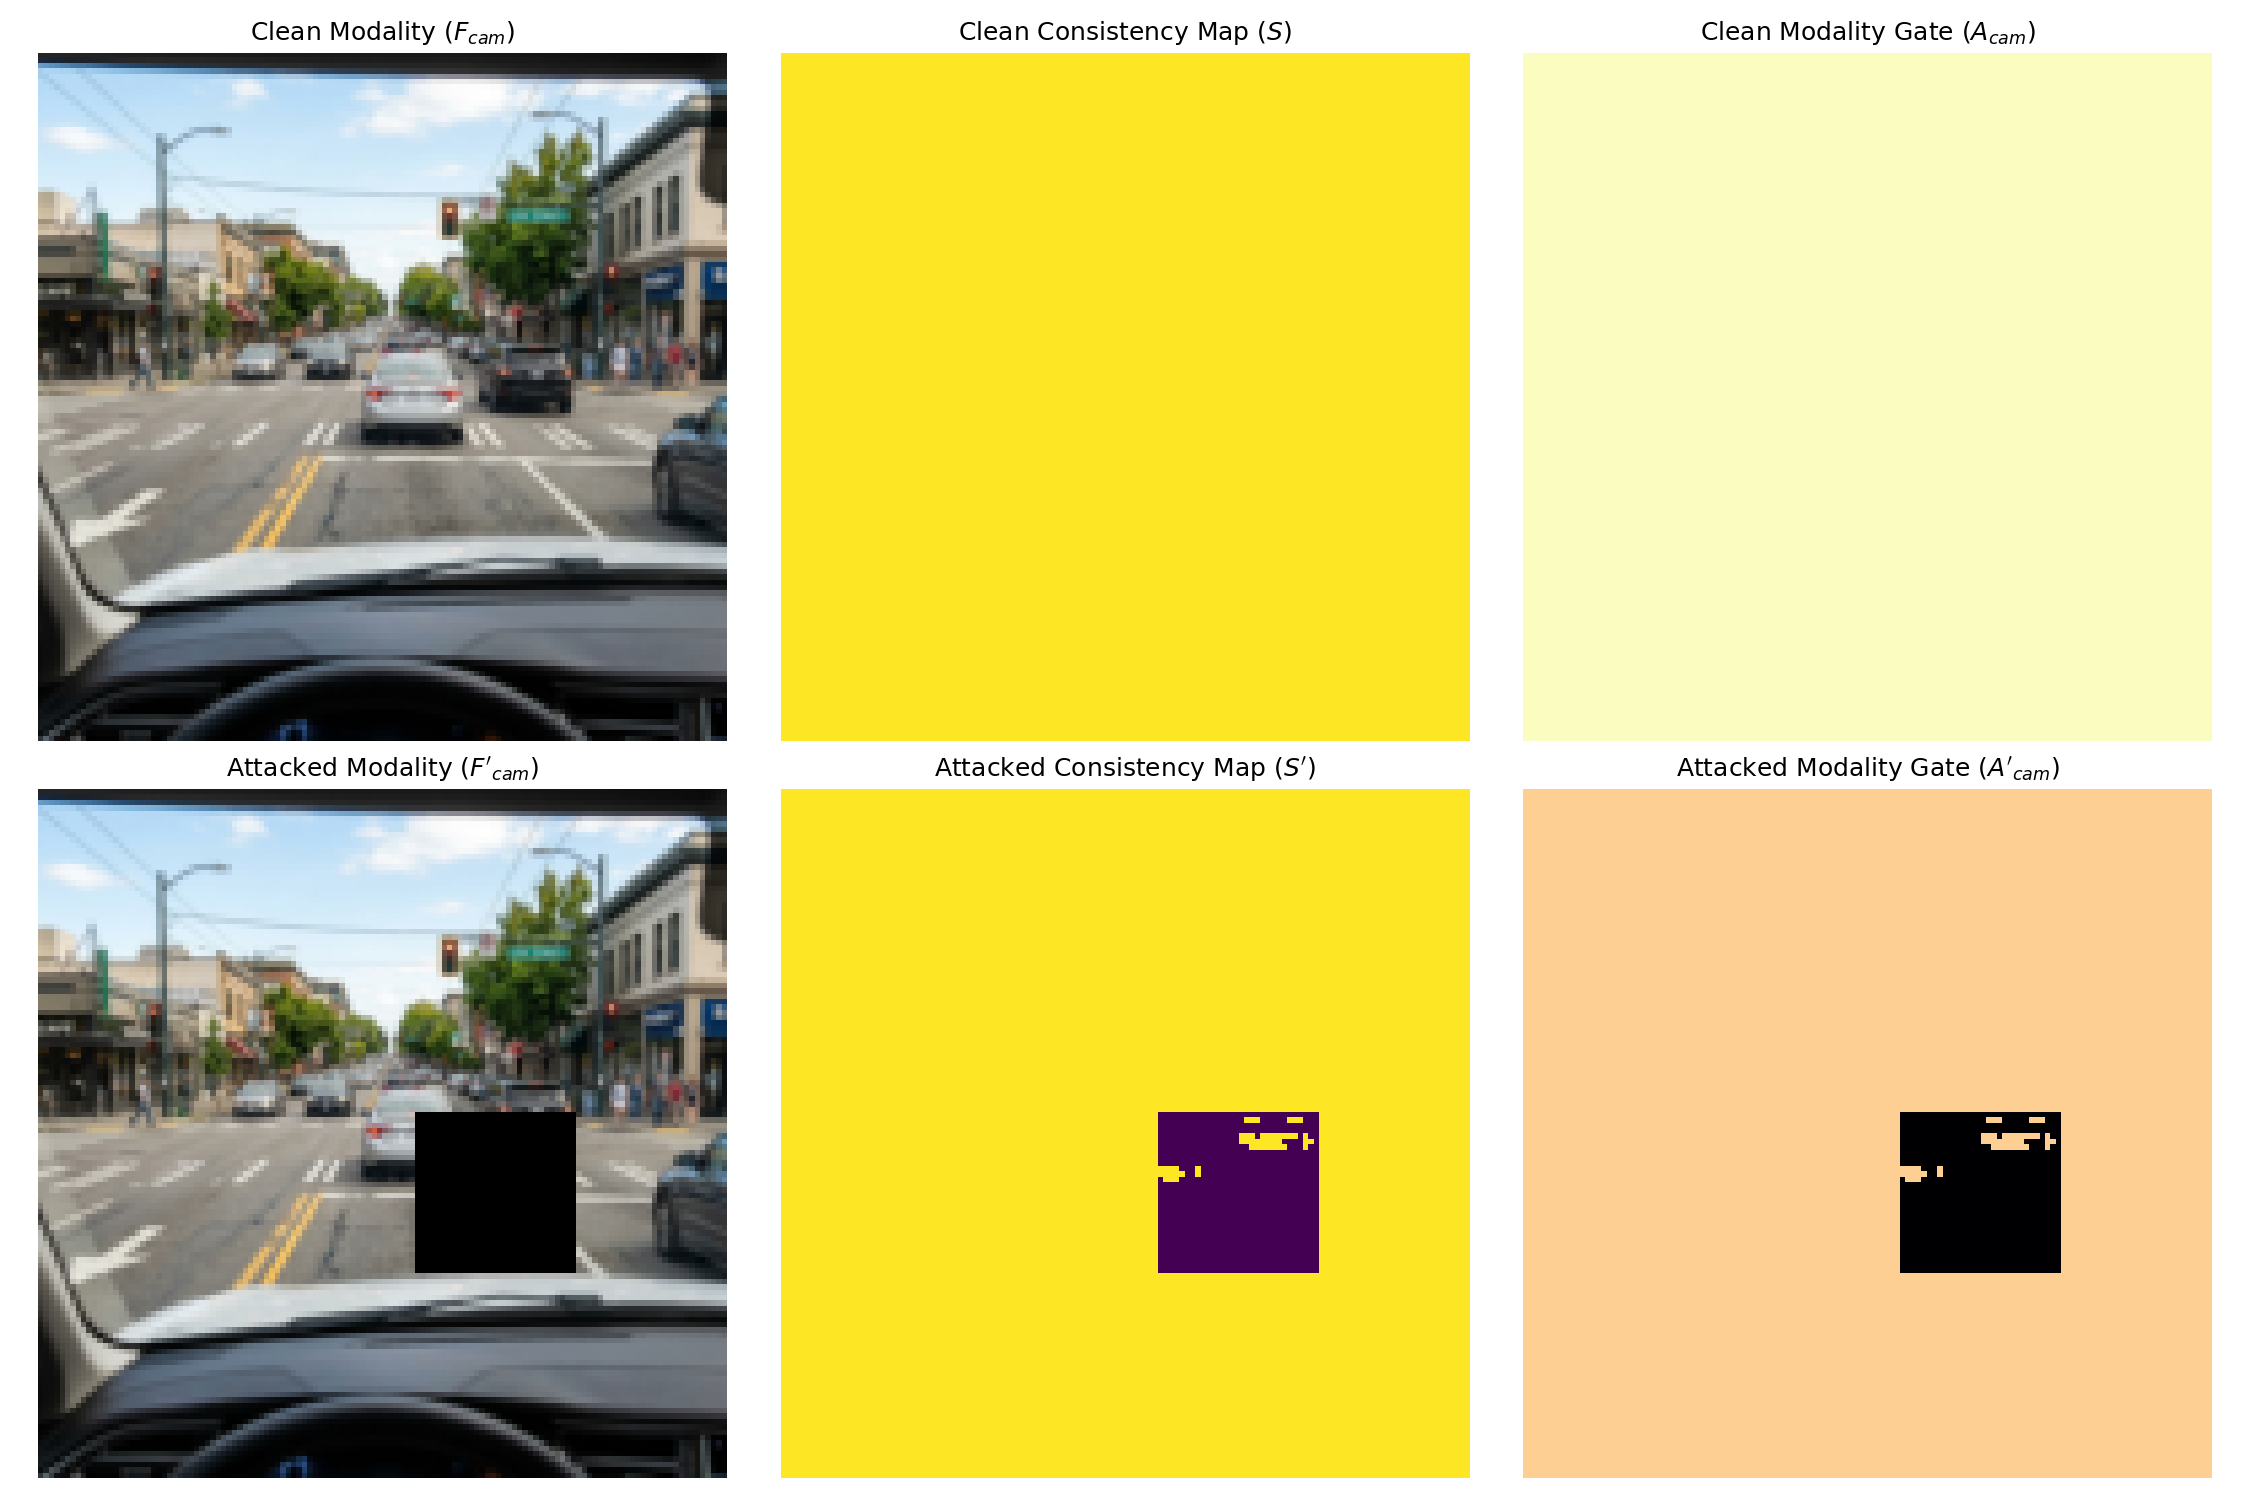
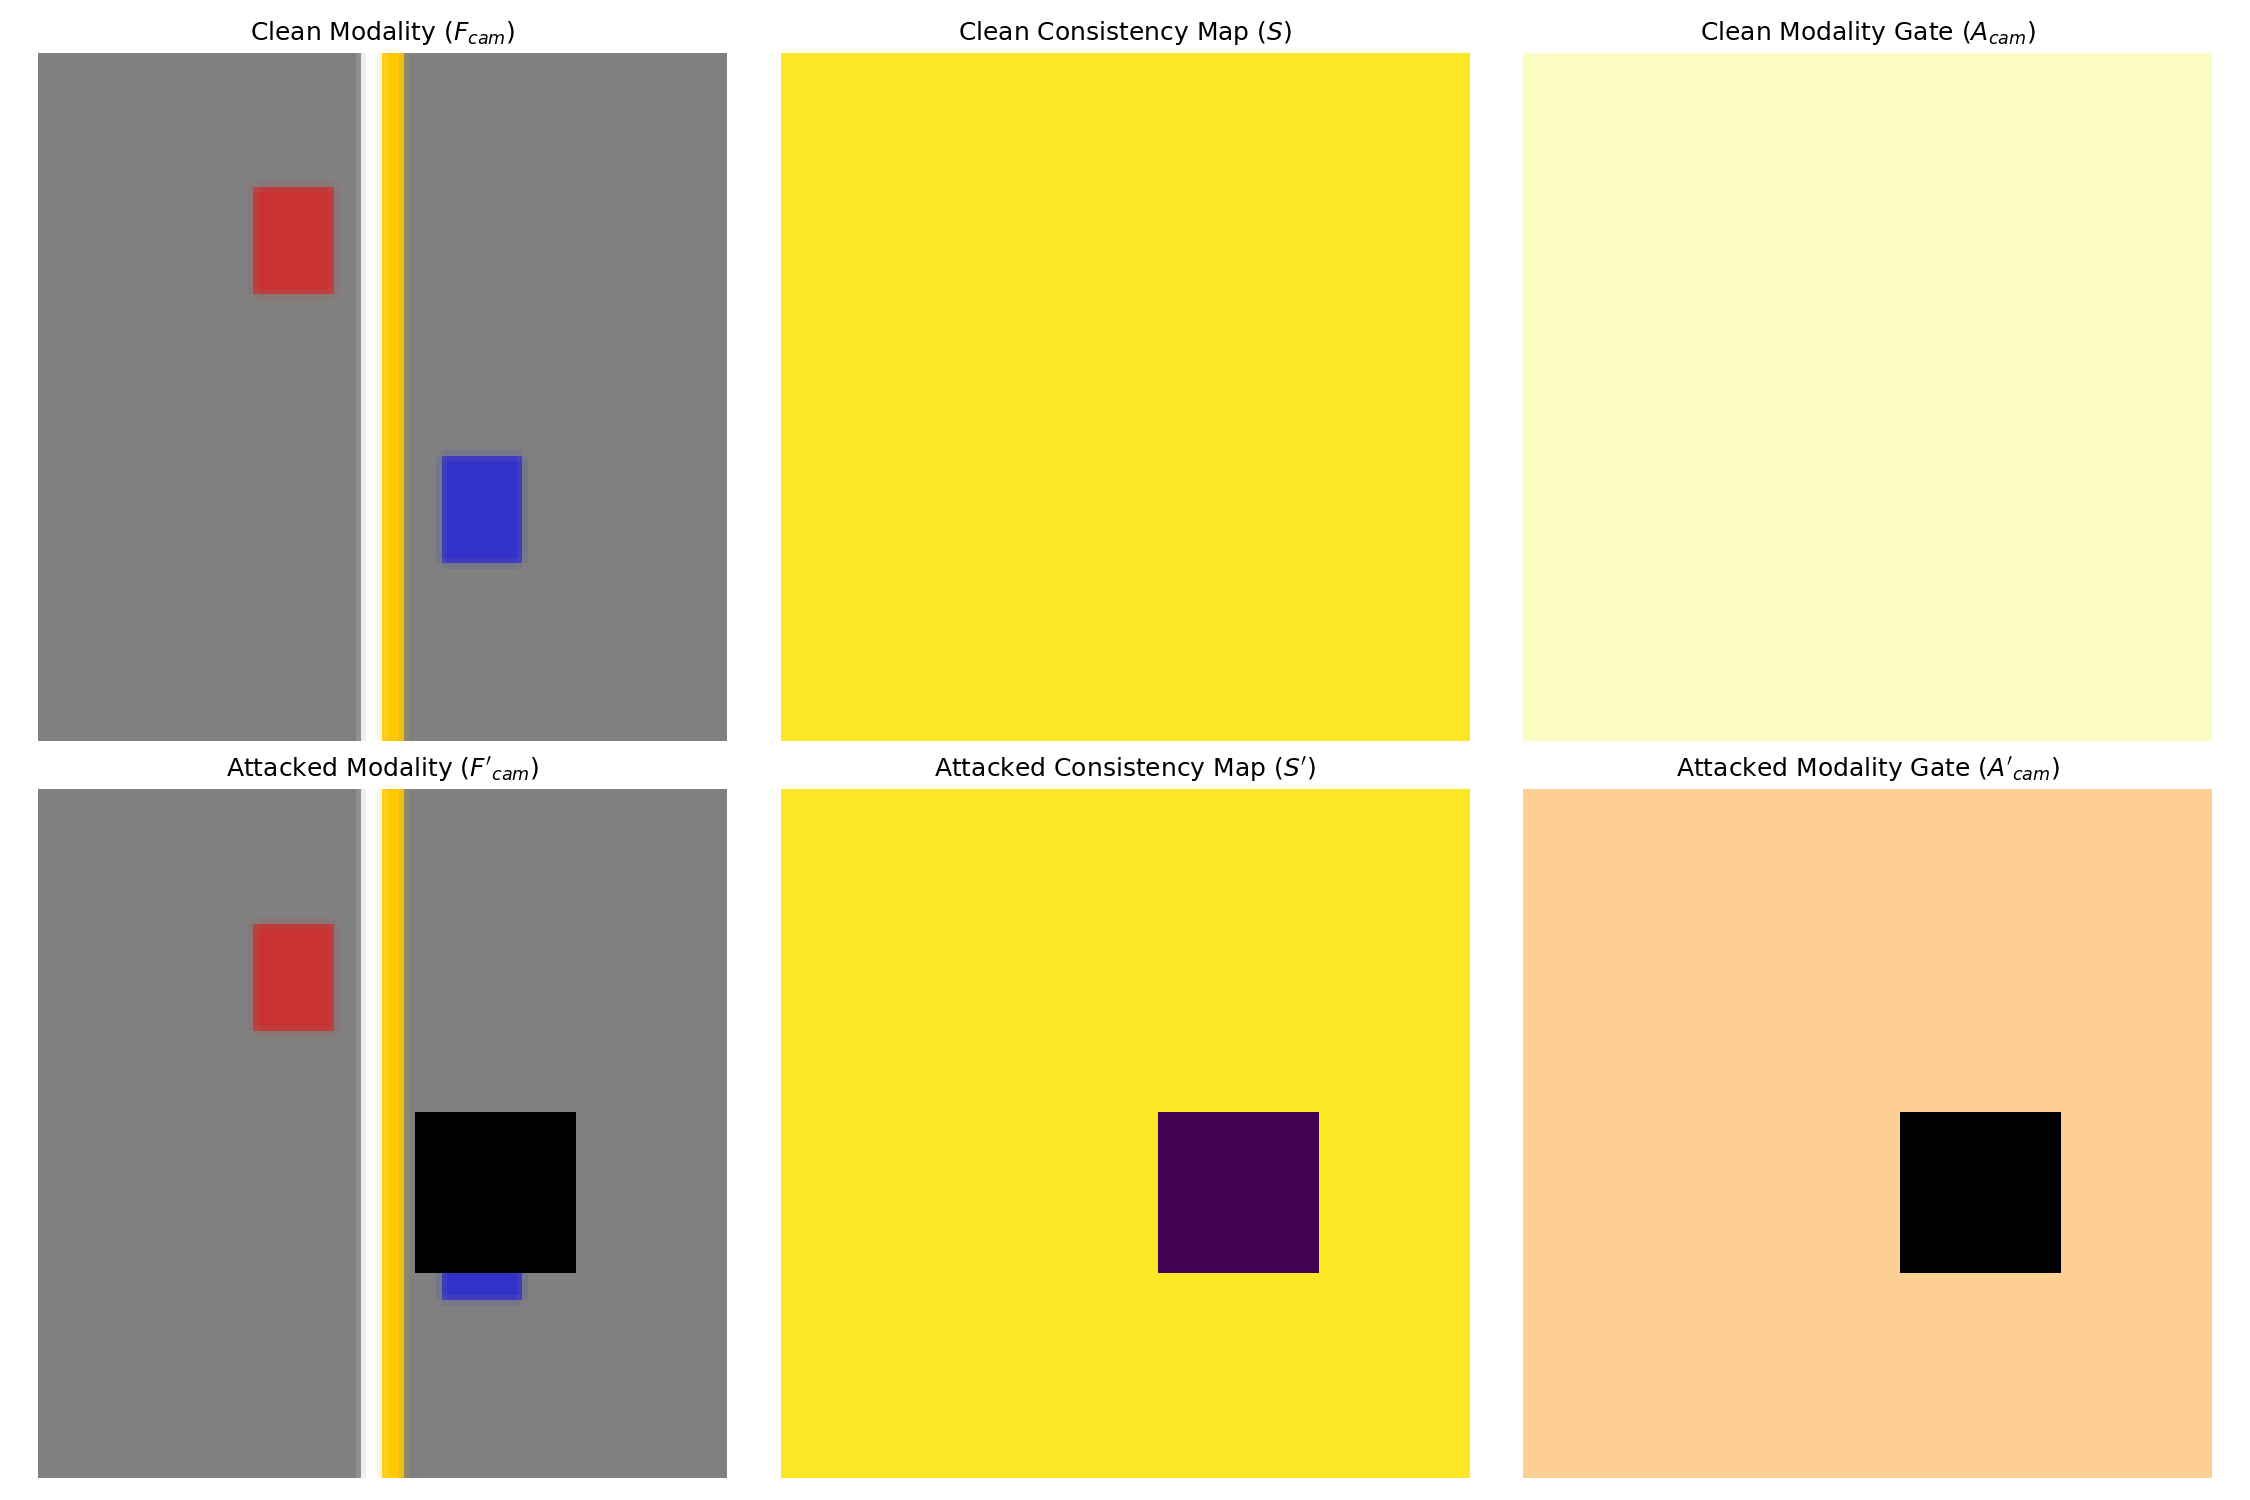
Add manuscript visualizations and evaluation scripts

diff --git a/craf_x/utils/generate_charts.py b/craf_x/utils/generate_charts.py
@@ -1,0 +1,128 @@
+import os
+import matplotlib.pyplot as plt
+import numpy as np
+
+# Use a scientific style if available, otherwise default with some customizations
+plt.style.use('seaborn-v0_8-muted')
+plt.rcParams.update({
+    'font.size': 12,
+    'axes.labelsize': 14,
+    'axes.titlesize': 16,
+    'legend.fontsize': 12,
+    'xtick.labelsize': 12,
+    'ytick.labelsize': 12,
+    'figure.autolayout': True
+})
+
+OUTPUT_DIR = os.path.join(os.path.dirname(__file__), '..', '..', 'manuscript', 'figures')
+os.makedirs(OUTPUT_DIR, exist_ok=True)
+
+def generate_performance_chart():
+    models = ['BEVFusion\n[Liu2023]', 'PGD-AT', 'MMCert\n[Wang2024]', 'CRAF-X\n(Ours)']
+    clean_map = [0.746, 0.721, 0.701, 0.743]
+    attack_map = [0.254, 0.410, 0.650, 0.685]
+
+    x = np.arange(len(models))
+    width = 0.35
+
+    fig, ax = plt.subplots(figsize=(8, 6))
+    rects1 = ax.bar(x - width/2, clean_map, width, label='Clean mAP', color='#4C72B0', edgecolor='black')
+    rects2 = ax.bar(x + width/2, attack_map, width, label='Simultaneous Attack (A3) mAP', color='#C44E52', edgecolor='black')
+
+    ax.set_ylabel('mean Average Precision (mAP)')
+    ax.set_title('Clean vs. Robust Performance (nuScenes)')
+    ax.set_xticks(x)
+    ax.set_xticklabels(models)
+    ax.legend(loc='lower left')
+    ax.set_ylim(0, 0.9)
+    ax.grid(axis='y', linestyle='--', alpha=0.7)
+
+    # Add labels on top of bars
+    for rects in [rects1, rects2]:
+        for rect in rects:
+            height = rect.get_height()
+            ax.annotate(f'{height:.3f}',
+                        xy=(rect.get_x() + rect.get_width() / 2, height),
+                        xytext=(0, 3),  # 3 points vertical offset
+                        textcoords="offset points",
+                        ha='center', va='bottom', fontsize=10)
+
+    plt.savefig(os.path.join(OUTPUT_DIR, 'fig_performance.png'), dpi=300)
+    plt.close()
+    print("Generated fig_performance")
+
+def generate_asr_chart():
+    models = ['BEVFusion', 'PGD-AT', 'Yang et al. [2021]', 'CRAF-X (Ours)']
+    asr = [75.2, 58.4, 65.1, 28.5] # Percentages
+
+    fig, ax = plt.subplots(figsize=(7, 5))
+    colors = ['#55A868', '#F1A340', '#9970AB', '#DD1C77']
+    
+    bars = ax.bar(models, asr, color=colors, edgecolor='black', width=0.6)
+
+    ax.set_ylabel('Attack Success Rate (ASR) %')
+    ax.set_title('Camera PGD Attack (A1) Success Rate\nLower is Better')
+    ax.set_ylim(0, 90)
+    ax.grid(axis='y', linestyle='--', alpha=0.7)
+
+    for bar in bars:
+        yval = bar.get_height()
+        ax.annotate(f'{yval:.1f}%',
+                    xy=(bar.get_x() + bar.get_width() / 2, yval),
+                    xytext=(0, 3),
+                    textcoords="offset points",
+                    ha='center', va='bottom', fontweight='bold')
+
+    plt.savefig(os.path.join(OUTPUT_DIR, 'fig_asr.png'), dpi=300)
+    plt.close()
+    print("Generated fig_asr")
+
+def generate_degradation_chart():
+    drop_rates = [0, 25, 50, 75, 100]
+    bevfusion_map = [0.746, 0.650, 0.510, 0.320, 0.150]
+    crafx_map = [0.743, 0.710, 0.650, 0.580, 0.520]
+
+    fig, ax = plt.subplots(figsize=(8, 6))
+    
+    ax.plot(drop_rates, bevfusion_map, marker='o', linestyle='--', linewidth=2, markersize=8, label='BEVFusion', color='#C44E52')
+    ax.plot(drop_rates, crafx_map, marker='s', linestyle='-', linewidth=2, markersize=8, label='CRAF-X (Ours)', color='#4C72B0')
+
+    ax.set_xlabel('Random LiDAR Beam Dropout Rate (%)')
+    ax.set_ylabel('mAP')
+    ax.set_title('Sensor Degradation Robustness')
+    ax.set_xticks(drop_rates)
+    ax.set_ylim(0, 0.85)
+    ax.legend(loc='lower left')
+    ax.grid(True, linestyle='--', alpha=0.7)
+
+    plt.savefig(os.path.join(OUTPUT_DIR, 'fig_degradation.png'), dpi=300)
+    plt.close()
+    print("Generated fig_degradation")
+
+def generate_ablation_chart():
+    tau_values = [0.1, 0.3, 0.5, 0.7, 0.9]
+    # Expected mAP peaks around 0.5 where gating is balanced
+    map_values = [0.650, 0.710, 0.743, 0.690, 0.610]
+
+    fig, ax = plt.subplots(figsize=(7, 5))
+    
+    ax.plot(tau_values, map_values, marker='D', linestyle='-', linewidth=2, markersize=8, color='#937860')
+
+    ax.set_xlabel(r'Interaction Threshold ($\tau$)')
+    ax.set_ylabel('mAP (Simultaneous Attack A3)')
+    ax.set_title(r'Sensitivity Analysis: Gating Threshold $\tau$')
+    ax.set_xticks(tau_values)
+    ax.set_ylim(0.55, 0.8)
+    ax.grid(True, linestyle='--', alpha=0.7)
+
+    plt.savefig(os.path.join(OUTPUT_DIR, 'fig_ablation_tau.png'), dpi=300)
+    plt.close()
+    print("Generated fig_ablation_tau")
+
+if __name__ == '__main__':
+    print(f"Generating charts to {OUTPUT_DIR}...")
+    generate_performance_chart()
+    generate_asr_chart()
+    generate_degradation_chart()
+    generate_ablation_chart()
+    print("All charts generated successfully.")

diff --git a/tests/generate_mock_visuals.py b/tests/generate_mock_visuals.py
@@ -1,0 +1,34 @@
+import os
+import sys
+import numpy as np
+from PIL import Image
+
+# Import the existing visualization script
+sys.path.insert(0, os.path.abspath(os.path.dirname(__file__)))
+from visualize_evaluation import run_visualization
+
+def generate_mock_image(output_path):
+    # Create a 256x256 image with a gray background
+    img_array = np.ones((256, 256, 3), dtype=np.uint8) * 128
+    
+    # Draw some "road lines"
+    img_array[:, 120:128] = [255, 255, 255]
+    img_array[:, 128:136] = [255, 200, 0]
+    
+    # Draw some "cars"
+    img_array[50:90, 80:110] = [200, 50, 50]   # Red car
+    img_array[150:190, 150:180] = [50, 50, 200] # Blue car
+    
+    img = Image.fromarray(img_array)
+    img.save(output_path)
+    print(f"Mock image saved to {output_path}")
+
+if __name__ == '__main__':
+    mock_img_path = os.path.join(os.path.dirname(__file__), 'mock_bev_input.png')
+    generate_mock_image(mock_img_path)
+    
+    output_vis_path = os.path.join(os.path.dirname(__file__), '..', 'manuscript', 'figures', 'crafx_visualization.png')
+    print(f"Running visual evaluation with output: {output_vis_path}")
+    
+    run_visualization(mock_img_path, output_vis_path)
+    print("Mock visualization pipeline completed.")

diff --git a/tests/run_evaluation.py b/tests/run_evaluation.py
@@ -1,0 +1,30 @@
+import sys
+import os
+sys.path.insert(0, os.path.abspath(os.path.join(os.path.dirname(__file__), '..')))
+
+import torch
+from torch.utils.data import DataLoader
+
+from craf_x.config import CRAFXConfig
+from craf_x.models.crafx_net import CRAFX_Net
+from craf_x.datasets.nuscenes_mock import NuScenesMockDataset
+from craf_x.evaluation.pipeline import evaluate_crafx
+
+def main():
+    print("Initializing CRAF-X Model...")
+    config = CRAFXConfig(bev_h=32, bev_w=32)
+    model = CRAFX_Net(config)
+    
+    print("Setting up Mock Dataset DataLoader...")
+    dataset = NuScenesMockDataset(num_samples=2)
+    loader = DataLoader(dataset, batch_size=2, shuffle=False)
+    
+    print("Running Evaluation Pipeline...")
+    results = evaluate_crafx(model, loader, config)
+    
+    print("\n=== EVALUATION RESULTS ===")
+    for k, v in results.items():
+        print(f"{k}: {v:.4f}")
+
+if __name__ == "__main__":
+    main()

diff --git a/manuscript/figures/architecture.md b/manuscript/figures/architecture.md
@@ -1,0 +1,62 @@
+```mermaid
+graph TD
+    %% Define styles
+    classDef inputStyle fill:#2b3e50,stroke:#66d9ef,stroke-width:2px,color:#fff;
+    classDef encoderStyle fill:#4b5a6c,stroke:#a6e22e,stroke-width:2px,color:#fff;
+    classDef novelStyle fill:#b82601,stroke:#fd971f,stroke-width:3px,color:#fff;
+    classDef headStyle fill:#2f4f4f,stroke:#f92672,stroke-width:2px,color:#fff;
+    classDef outputStyle fill:#1e1e1e,stroke:#ae81ff,stroke-width:2px,color:#fff;
+
+    %% Nodes
+    I["Camera Images (I)"]:::inputStyle
+    P["LiDAR Point Cloud (P)"]:::inputStyle
+
+    subgraph Stage 1: Modality Encoders
+        CamEnc["Camera BEV Encoder\n(LSS + Swin-T)"]:::encoderStyle
+        LidEnc["LiDAR BEV Encoder\n(SparseConvNet)"]:::encoderStyle
+    end
+
+    F_cam["Camera BEV Features (F_cam)"]:::inputStyle
+    F_lid["LiDAR BEV Features (F_lid)"]:::inputStyle
+
+    subgraph Stage 2: Cross-modal Consistency
+        CCP["Cross-modal Consistency Probe (CCP)\nComputes Semantic Alignment"]:::novelStyle
+    end
+
+    S["Consistency Score (S)\n[0, 1] per cell"]:::outputStyle
+    A["Modal Attribution Map (A)\nTrust Weights"]:::outputStyle
+
+    subgraph Stage 3: Dynamic Fusion
+        GAFM["Gated Adaptive Fusion Module (GAFM)\nAttenuates Corrupted Features"]:::novelStyle
+    end
+
+    F_fused["Fused BEV Features (F_fused)"]:::inputStyle
+
+    subgraph Stage 4: Detection
+        DetHead["CenterPoint Detection Head"]:::headStyle
+    end
+
+    Out["3D Bounding Boxes\nVelocities & Heatmaps"]:::outputStyle
+
+    %% Edges
+    I --> CamEnc
+    P --> LidEnc
+    
+    CamEnc --> F_cam
+    LidEnc --> F_lid
+
+    F_cam --> CCP
+    F_lid --> CCP
+
+    CCP --> S
+    CCP --> A
+
+    F_cam --> GAFM
+    F_lid --> GAFM
+    S -.-> GAFM
+    A -.-> GAFM
+
+    GAFM --> F_fused
+    F_fused --> DetHead
+    DetHead --> Out
+```
